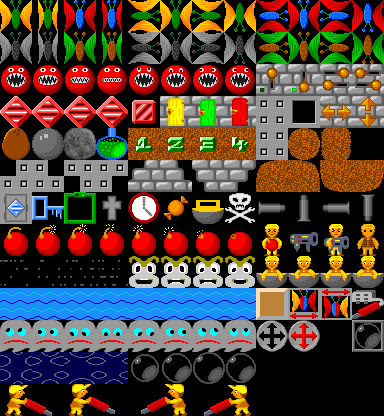
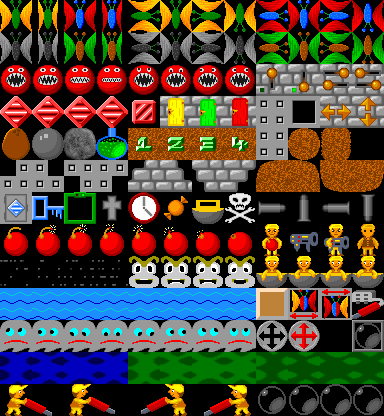
added new graphics for BD engine amoeba elements

Changed region(s): [[0.0, 0.8438, 1.0, 1.0]]

diff --git a/src/conf_gfx.c b/src/conf_gfx.c
@@ -442,11 +442,19 @@ struct ConfigInfo image_config[] =
   { "bdx_magic_wall.active",				UNDEFINED_FILENAME		},
   { "bdx_magic_wall.active.clone_from",			"bd_magic_wall.active"		},
 
-  { "bdx_amoeba_1",					UNDEFINED_FILENAME		},
-  { "bdx_amoeba_1.clone_from",				"bd_amoeba"			},
+  { "bdx_amoeba_1",					"RocksBD.png"			},
+  { "bdx_amoeba_1.xpos",				"4"				},
+  { "bdx_amoeba_1.ypos",				"11"				},
+  { "bdx_amoeba_1.frames",				"4"				},
+  { "bdx_amoeba_1.delay",				"4"				},
+  { "bdx_amoeba_1.anim_mode",				"pingpong2"			},
 
-  { "bdx_amoeba_2",					UNDEFINED_FILENAME		},
-  { "bdx_amoeba_2.clone_from",				"bd_amoeba"			},
+  { "bdx_amoeba_2",					"RocksBD.png"			},
+  { "bdx_amoeba_2.xpos",				"8"				},
+  { "bdx_amoeba_2.ypos",				"11"				},
+  { "bdx_amoeba_2.frames",				"4"				},
+  { "bdx_amoeba_2.delay",				"4"				},
+  { "bdx_amoeba_2.anim_mode",				"pingpong2"			},
 
   { "bdx_butterfly_1",					UNDEFINED_FILENAME		},
   { "bdx_butterfly_1.clone_from",			"bd_butterfly"			},
@@ -849,8 +857,8 @@ struct ConfigInfo image_config[] =
   { "bdx_nut.falling.EDITOR.ypos",			"2"				},
 
   { "bdx_bladder",					"RocksBD.png"			},
-  { "bdx_bladder.xpos",					"4"				},
-  { "bdx_bladder.ypos",					"11"				},
+  { "bdx_bladder.xpos",					"8"				},
+  { "bdx_bladder.ypos",					"12"				},
   { "bdx_bladder.frames",				"4"				},
   { "bdx_bladder.delay",				"4"				},
   { "bdx_bladder.anim_mode",				"pingpong2"			},
